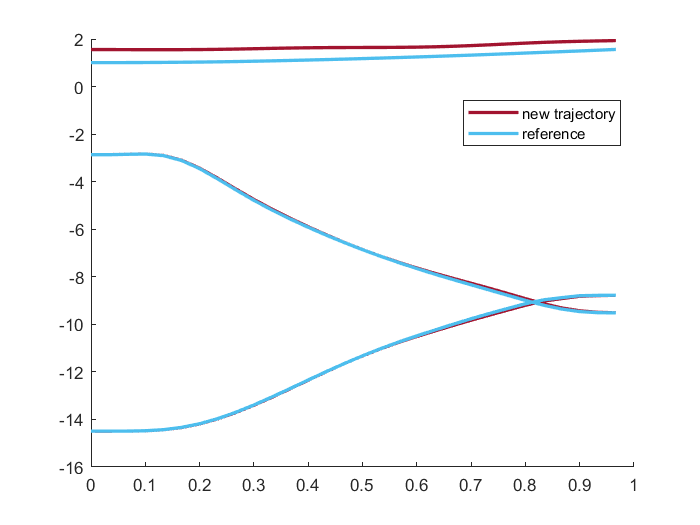
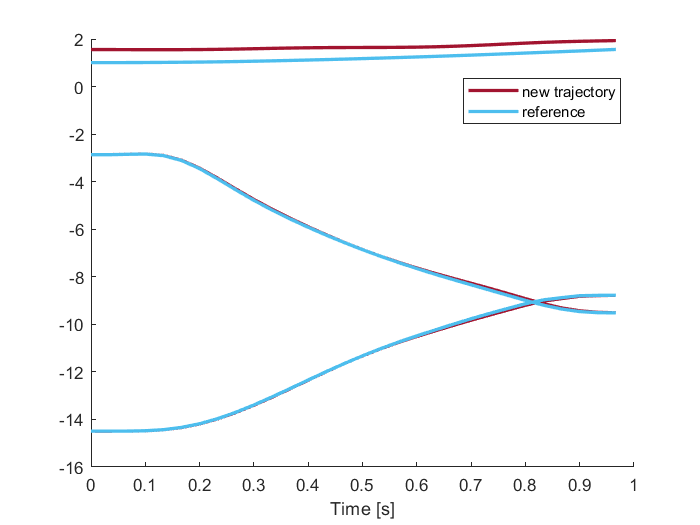
changed pictures

Changed region(s): [[0.66, 0.1524, 0.9, 0.2743], [0.48, 0.9448, 0.57, 1.0]]

diff --git a/exC14InvariantSplines/ex_C3C4Splines.m b/exC14InvariantSplines/ex_C3C4Splines.m
@@ -120,7 +120,8 @@ plot(t(1:end-1), u(:,1), 'Color', [0.6350, 0.0780, 0.1840], 'LineWidth',2.0)
 plot(t(1:end-1), no_spline(1,:), 'Color', [0.3010, 0.7450, 0.9330], 'LineWidth',2.0)
 plot(t(1:end-1), u(:,2:3), 'Color', [0.6350, 0.0780, 0.1840], 'LineWidth',2.0)
 plot(t(1:end-1), no_spline(2:3,:), 'Color', [0.3010, 0.7450, 0.9330], 'LineWidth',2.0)
-legend('spline invariants', 'no spline invariants')
+xlabel('Time [s]')
+legend('spline invariants', 'multiple shooting')
 % save('fit','u_sol');
 
 %% ========================================================================
@@ -238,6 +239,7 @@ plot(t(1:end-1), u_new(:,1), 'Color', [0.6350, 0.0780, 0.1840], 'LineWidth',2.0)
 plot(t(1:end-1), u(:,1), 'Color', [0.3010, 0.7450, 0.9330], 'LineWidth',2.0)
 plot(t(1:end-1), u_new(:,2:3), 'Color', [0.6350, 0.0780, 0.1840], 'LineWidth',2.0)
 plot(t(1:end-1), u(:,2:3), 'Color', [0.3010, 0.7450, 0.9330], 'LineWidth',2.0)
+xlabel('Time [s]')
 legend('new trajectory', 'reference')
 
 %% Save results
